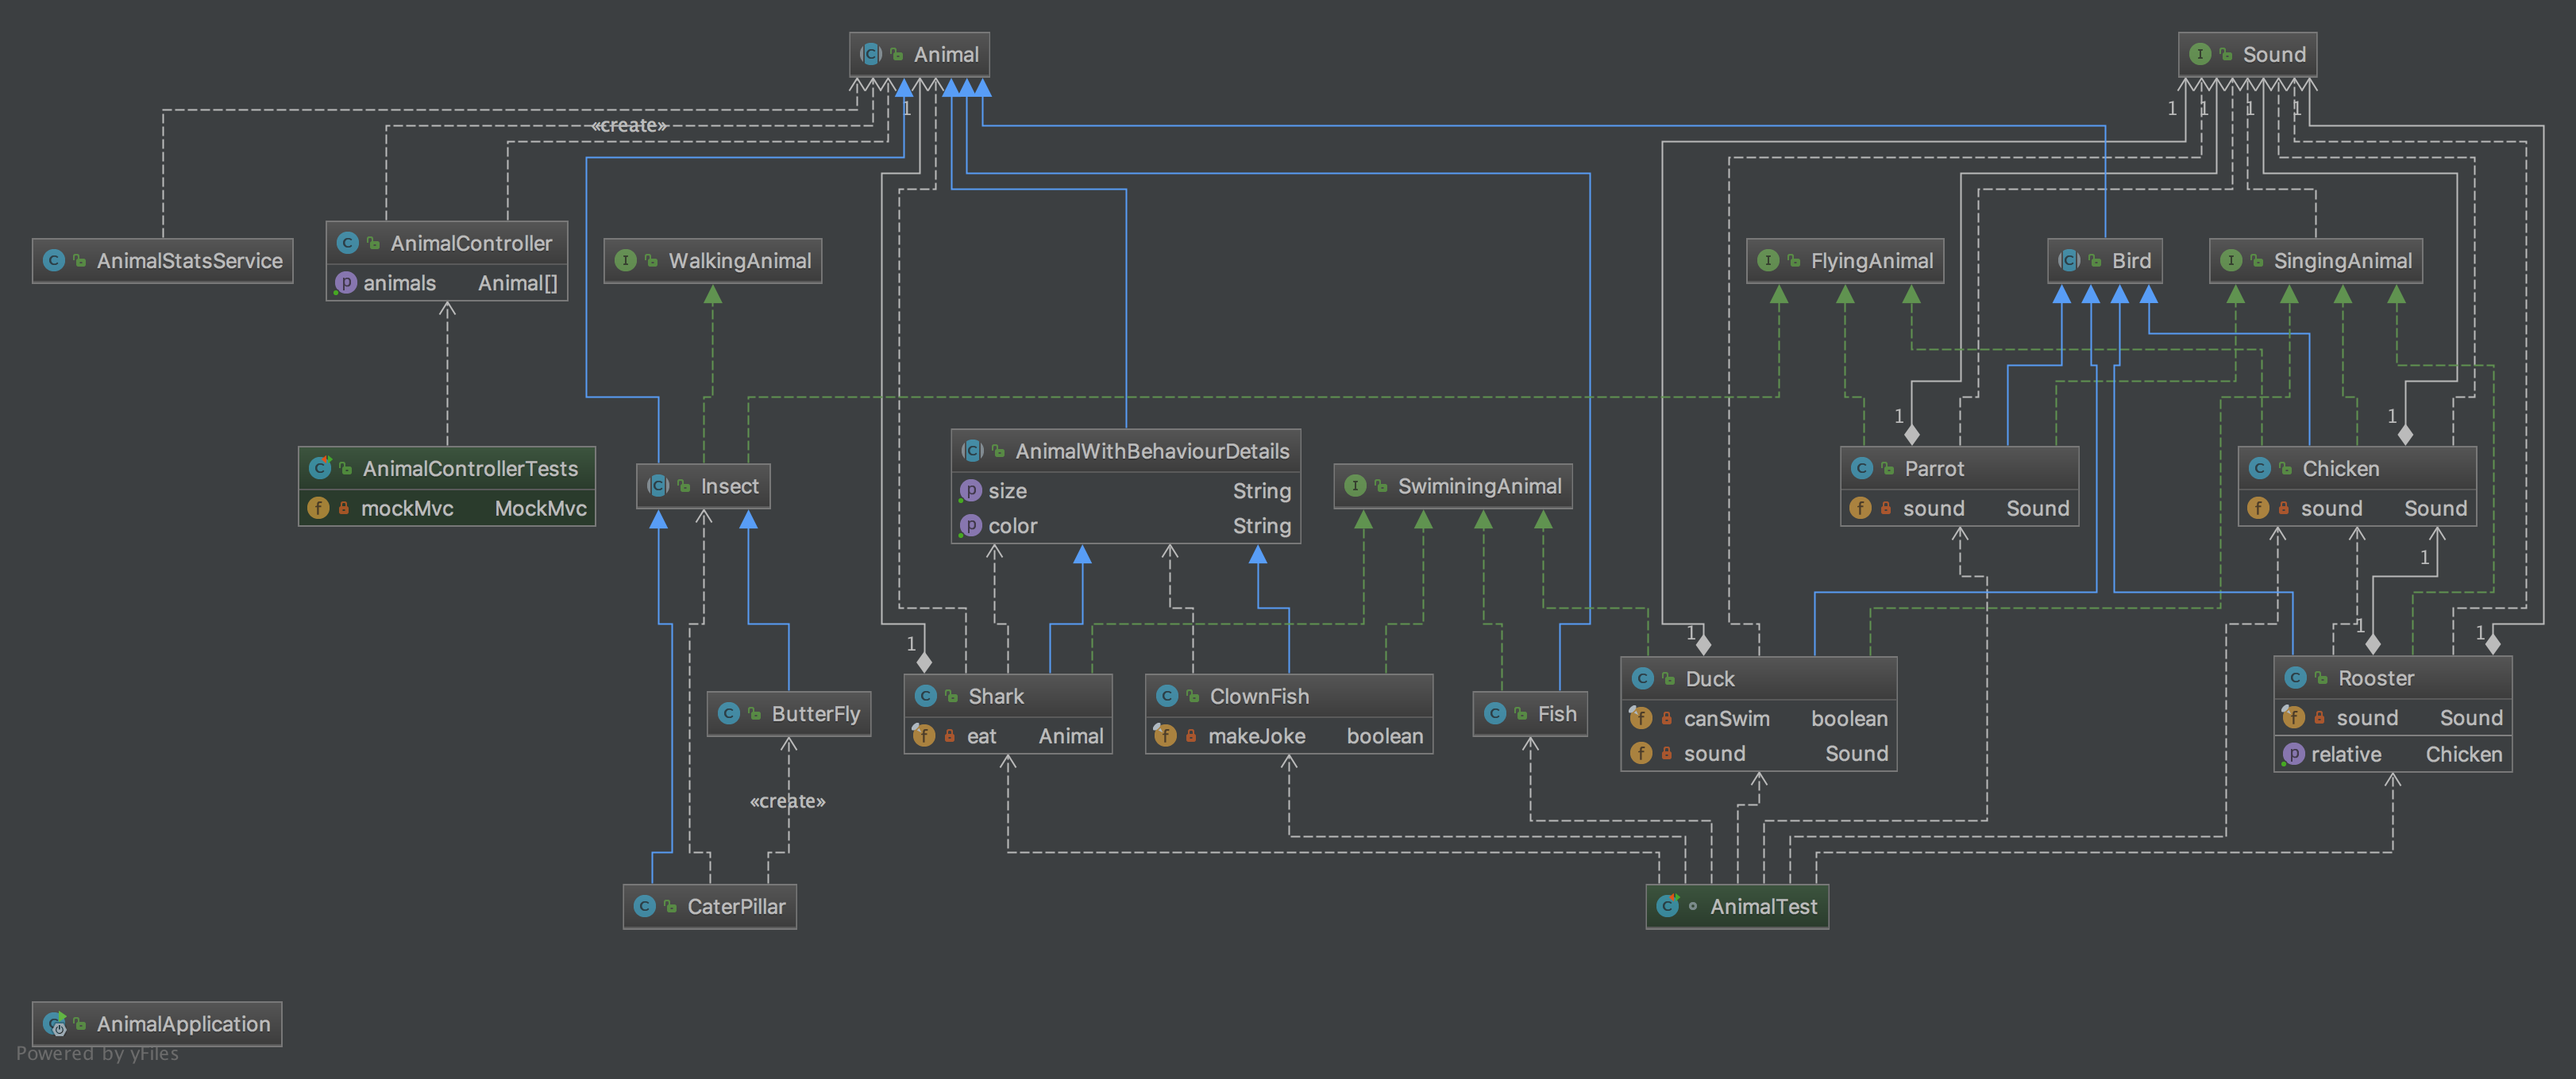
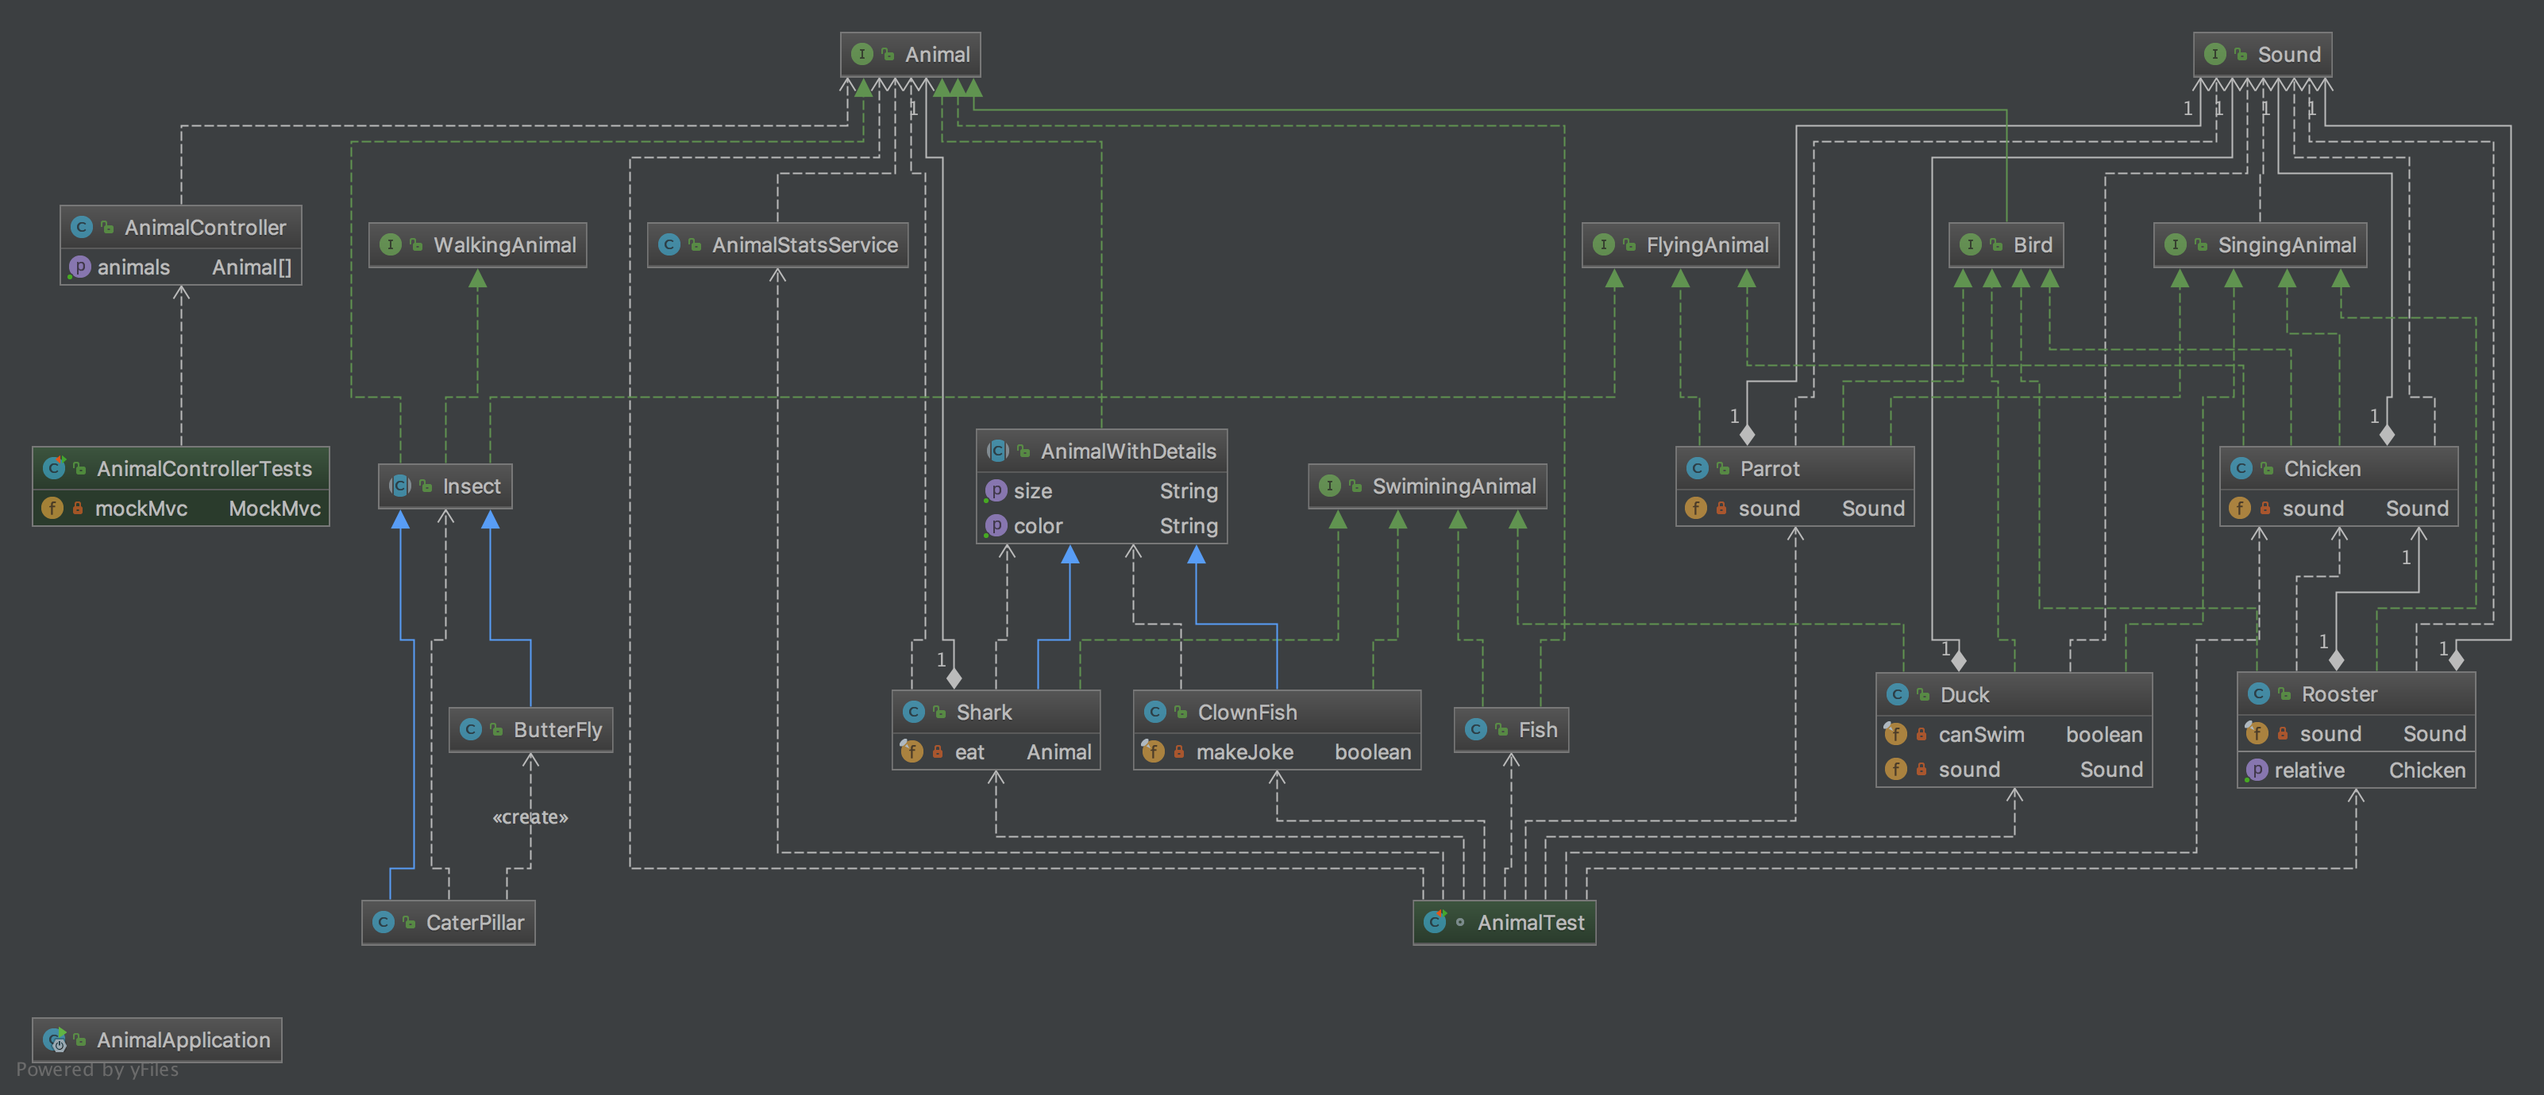
refactoring test and diagram

diff --git a/src/test/java/com/example/animal/controller/AnimalControllerTests.java b/src/test/java/com/example/animal/controller/AnimalControllerTests.java
@@ -1,30 +1,29 @@
-package com.example.template.controller;
+package com.example.animal.controller;
 
-import com.example.animal.controller.AnimalController;
 import org.junit.Test;
 import org.junit.runner.RunWith;
 import org.springframework.beans.factory.annotation.Autowired;
-import org.springframework.boot.test.autoconfigure.web.servlet.AutoConfigureMockMvc;
 import org.springframework.boot.test.autoconfigure.web.servlet.WebMvcTest;
-import org.springframework.boot.test.context.SpringBootTest;
 import org.springframework.test.context.junit4.SpringRunner;
 import org.springframework.test.web.servlet.MockMvc;
 import org.springframework.test.web.servlet.request.MockMvcRequestBuilders;
 
+import static com.example.animal.repository.AnimalTestData.duckSound;
 import static org.hamcrest.Matchers.containsString;
 import static org.springframework.http.MediaType.APPLICATION_JSON;
 import static org.springframework.test.web.servlet.result.MockMvcResultMatchers.content;
 import static org.springframework.test.web.servlet.result.MockMvcResultMatchers.status;
 
 @RunWith(SpringRunner.class)
-@SpringBootTest
-@AutoConfigureMockMvc
 @WebMvcTest(AnimalController.class)
 public class AnimalControllerTests {
 
     @Autowired
     private MockMvc mockMvc;
 
+    @Test
+    public void contextLoads() {
+    }
 
     @Test
     public void animals() throws Exception {
@@ -33,6 +32,6 @@ public class AnimalControllerTests {
                         .accept(APPLICATION_JSON))
                 .andExpect(status().isOk())
                 .andExpect(content().string(
-                        containsString("Quack Quack")));
+                        containsString(duckSound.sound())));
     }
 }

diff --git a/src/main/java/com/example/animal/behaviour/Animal.java b/src/main/java/com/example/animal/behaviour/Animal.java
@@ -1,18 +1,24 @@
 package com.example.animal.behaviour;
 
+import com.fasterxml.jackson.annotation.JsonProperty;
+
 public interface Animal {
+    @JsonProperty
     default boolean canFly() {
         return false;
     }
 
+    @JsonProperty
     default boolean canWalk() {
         return false;
     }
 
+    @JsonProperty
     default boolean canSing() {
         return false;
     }
 
+    @JsonProperty
     default boolean canSwim() {
         return false;
     }

diff --git a/src/main/java/com/example/animal/model/Duck.java b/src/main/java/com/example/animal/model/Duck.java
@@ -3,10 +3,12 @@ package com.example.animal.model;
 import com.example.animal.behaviour.SingingAnimal;
 import com.example.animal.behaviour.SwiminingAnimal;
 import com.example.common.behaviour.Sound;
+import com.fasterxml.jackson.annotation.JsonProperty;
 
 public class Duck implements SwiminingAnimal, SingingAnimal, Bird {
 
     private final boolean canSwim;
+    @JsonProperty
     private Sound sound;
 
     public Duck(Sound sound) {

diff --git a/src/main/java/com/example/animal/model/Chicken.java b/src/main/java/com/example/animal/model/Chicken.java
@@ -3,9 +3,11 @@ package com.example.animal.model;
 import com.example.animal.behaviour.FlyingAnimal;
 import com.example.animal.behaviour.SingingAnimal;
 import com.example.common.behaviour.Sound;
+import com.fasterxml.jackson.annotation.JsonProperty;
 
 public class Chicken implements SingingAnimal, FlyingAnimal, Bird {
 
+    @JsonProperty
     private Sound sound;
 
     public Chicken(Sound sound) {

diff --git a/src/main/java/com/example/animal/model/Parrot.java b/src/main/java/com/example/animal/model/Parrot.java
@@ -4,9 +4,11 @@ package com.example.animal.model;
 import com.example.animal.behaviour.FlyingAnimal;
 import com.example.animal.behaviour.SingingAnimal;
 import com.example.common.behaviour.Sound;
+import com.fasterxml.jackson.annotation.JsonProperty;
 
 public class Parrot implements SingingAnimal, FlyingAnimal, Bird {
 
+    @JsonProperty
     private Sound sound;
 
     public Parrot(Sound sound) {

diff --git a/src/main/java/com/example/animal/model/Rooster.java b/src/main/java/com/example/animal/model/Rooster.java
@@ -2,9 +2,10 @@ package com.example.animal.model;
 
 import com.example.animal.behaviour.SingingAnimal;
 import com.example.common.behaviour.Sound;
+import com.fasterxml.jackson.annotation.JsonProperty;
 
 public class Rooster implements SingingAnimal, Bird {
-
+    @JsonProperty
     private final Sound sound;
 
     private final Chicken relative;

diff --git a/src/main/java/com/example/animal/behaviour/SingingAnimal.java b/src/main/java/com/example/animal/behaviour/SingingAnimal.java
@@ -1,7 +1,9 @@
 package com.example.animal.behaviour;
 
 import com.example.common.behaviour.Sound;
+import com.fasterxml.jackson.annotation.JsonProperty;
 
 public interface SingingAnimal {
+    @JsonProperty
     Sound sing();
 }

diff --git a/src/main/java/com/example/animal/behaviour/WalkingAnimal.java b/src/main/java/com/example/animal/behaviour/WalkingAnimal.java
@@ -1,5 +1,8 @@
 package com.example.animal.behaviour;
 
+import com.fasterxml.jackson.annotation.JsonProperty;
+
 public interface WalkingAnimal {
+    @JsonProperty("walk")
     boolean walk();
 }

diff --git a/src/main/java/com/example/animal/behaviour/SwiminingAnimal.java b/src/main/java/com/example/animal/behaviour/SwiminingAnimal.java
@@ -1,5 +1,8 @@
 package com.example.animal.behaviour;
 
+import com.fasterxml.jackson.annotation.JsonProperty;
+
 public interface SwiminingAnimal {
+    @JsonProperty
     boolean swim();
 }

diff --git a/src/main/java/com/example/animal/behaviour/FlyingAnimal.java b/src/main/java/com/example/animal/behaviour/FlyingAnimal.java
@@ -1,5 +1,8 @@
 package com.example.animal.behaviour;
 
+import com.fasterxml.jackson.annotation.JsonProperty;
+
 public interface FlyingAnimal {
+    @JsonProperty
     boolean fly();
 }

diff --git a/src/main/java/com/example/common/behaviour/Sound.java b/src/main/java/com/example/common/behaviour/Sound.java
@@ -1,5 +1,8 @@
 package com.example.common.behaviour;
 
+import com.fasterxml.jackson.annotation.JsonProperty;
+
 public interface Sound {
+    @JsonProperty
     String sound();
 }

diff --git a/README.md b/README.md
@@ -3,5 +3,6 @@
 ``com.example.animal.model`` package contains the Animal model hierarchy
 
 ``AnimalApplication.java`` is <i>SpringBoot</i> Application, ``AnimalController`` has *REST API* for querying Animal model.
+``AnimalStatsService.java`` contains the logic for performing stream based stats calculation.
 
 ![alt text](AnimalModel.png "A sample Animal Model Hierarchy")
